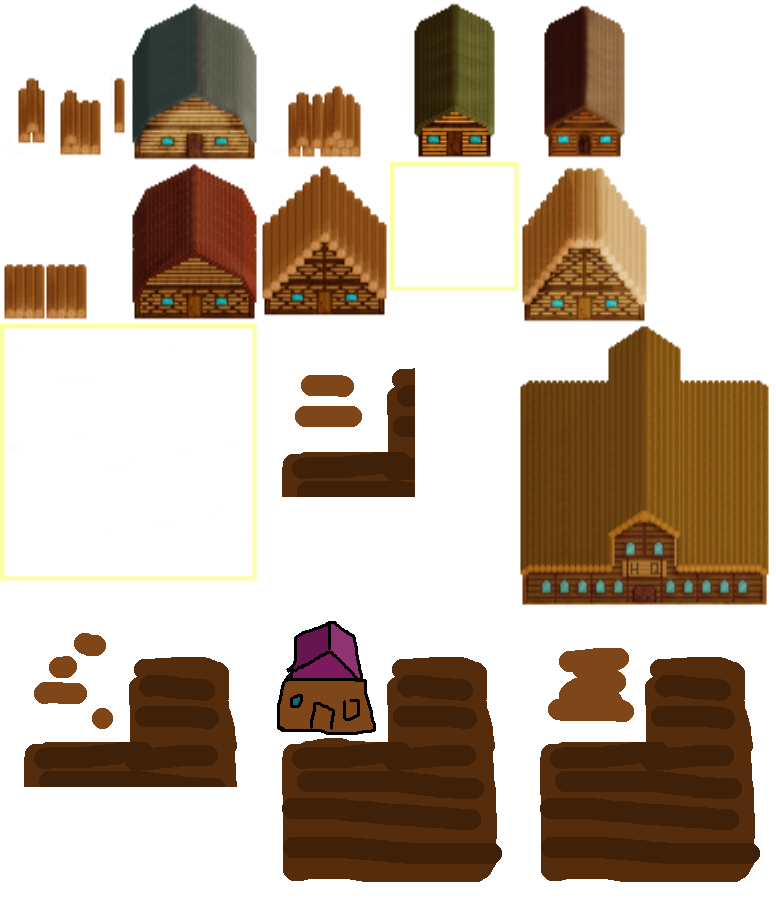
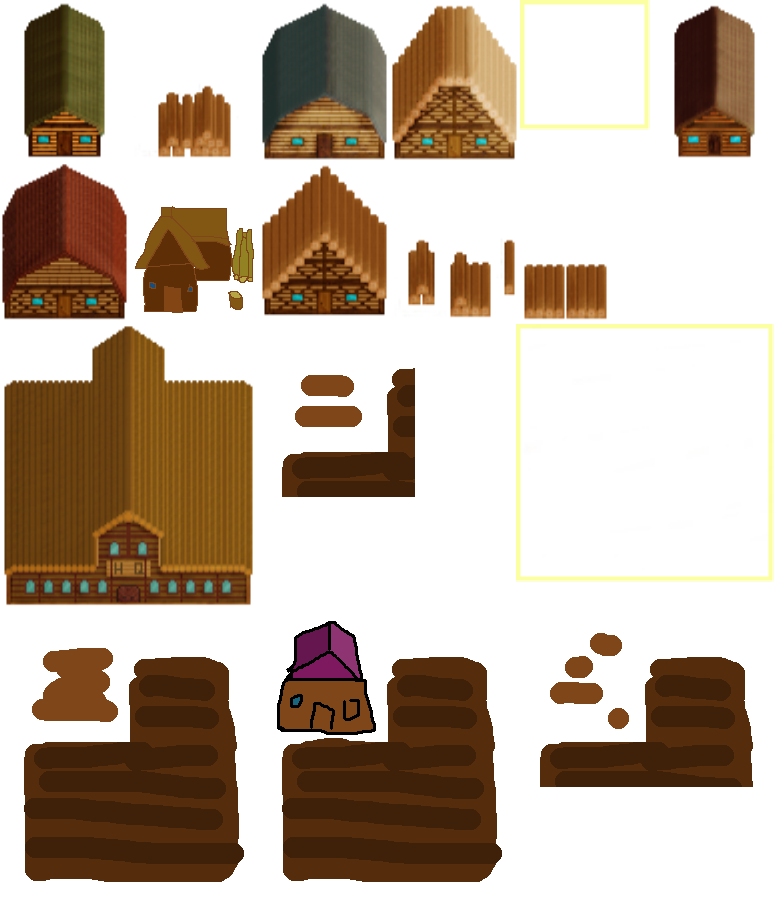
Added woodcutter

diff --git a/crown/Buildings/Woodcutter.cs b/crown/Buildings/Woodcutter.cs
@@ -1,0 +1,60 @@
+using Microsoft.Xna.Framework;
+using TexturePackerLoader;
+using static crown.Game1;
+
+namespace crown.Buildings {
+    class Woodcutter : Building {
+
+        public Woodcutter(SpriteFrame spriteFrame, Vector2 position, Rectangle rect, BuildingTypes type, Costs costs) : base(spriteFrame, position, rect, type, costs) {
+        }
+
+        public override void Initialize() {
+            Inhabitants = 3;
+            GoldUpkeep = 6;
+            ResourcesProduced = 10;
+            mechanics.GoldDelta -= GoldUpkeep;
+            mechanics.WoodDelta += ResourcesProduced;
+        }
+
+        public override void Update() {
+            if (BuildingState == 4) {
+                // People move in and are ready to work
+                Initialize();
+                BuildingState = 5;
+            } else if (BuildingState == 5) {
+
+                // Update resources
+                if (ActionTick > 5) {
+                    foreach (Interactive interactive in interactives) {
+                        if (interactive.Type == Interactive.IntType.TREE
+                        && interactive.Health > 0
+                        && interactive.Rect.Intersects(new Rectangle(Rect.X - 2 * Rect.Width, Rect.Y - 2 * Rect.Height, Rect.Width * 4, Rect.Height * 4))) {
+                            if (mechanics.Wood + ResourcesProduced > mechanics.WoodStorage)
+                                break;
+
+                            mechanics.Wood += ResourcesProduced;
+                            interactive.Health--;
+                            break;
+                        }
+                    }
+                    mechanics.Gold -= GoldUpkeep;
+                    ActionTick = 0;
+                }
+
+                ActionTick++;
+            }
+        }
+
+        public override void UpdateSprite() {
+            if (BuildingState == 0)
+                SpriteFrame = buildingTileSheet.Sprite(TexturePackerMonoGameDefinitions.buildingAtlas.House0);
+            if (BuildingState == 1)
+                SpriteFrame = buildingTileSheet.Sprite(TexturePackerMonoGameDefinitions.buildingAtlas.House1);
+            if (BuildingState == 2)
+                SpriteFrame = buildingTileSheet.Sprite(TexturePackerMonoGameDefinitions.buildingAtlas.House2);
+            if (BuildingState == 3)
+                SpriteFrame = buildingTileSheet.Sprite(TexturePackerMonoGameDefinitions.buildingAtlas.Woodcutter4);
+        }
+
+    }
+}

diff --git a/crown/Controls/Controls.cs b/crown/Controls/Controls.cs
@@ -33,6 +33,11 @@ namespace crown {
                         Costs costs = new Costs(0, -50, -80, -5, 0, 0);
                         BuildLargeBuilding(tile, Building.BuildingTypes.FARM, costs);
                     }
+                    if (mouseAction == MouseAction.WOODCUTTER) {
+                        // TODO: Kosten aus XML ziehen
+                        Costs costs = new Costs(0, 0, -50, -3, 0, 0);
+                        BuildSmallBuilding(tile, Building.BuildingTypes.WOODCUTTER, costs);
+                    }
                     if (mouseAction == MouseAction.ROAD) {
                         BuildRoad(tile, false);
                     }
@@ -200,6 +205,8 @@ namespace crown {
         private static Building GetSmallBuilding(SpriteFrame spriteFrame, Vector2 pos, Rectangle rect, Building.BuildingTypes type, Costs costs) {
             if (type == Building.BuildingTypes.HOUSE)
                 return new House(spriteFrame, pos, rect, type, costs);
+            if (type == Building.BuildingTypes.WOODCUTTER)
+                return new Woodcutter(spriteFrame, pos, rect, type, costs);
 
             return null;
         }

diff --git a/crown/Game1.cs b/crown/Game1.cs
@@ -40,7 +40,8 @@ namespace crown {
 
         // Which action is the mouse currently doing
         public enum MouseAction {
-            FARM, HOUSE, TOWNHALL, NOTHING, ROAD
+            FARM, HOUSE, TOWNHALL, NOTHING, ROAD,
+            WOODCUTTER
         }
 
         public MouseAction mouseAction = MouseAction.NOTHING;
@@ -199,6 +200,8 @@ namespace crown {
                         mouseAction = MouseAction.HOUSE;
                     else if (item.Type == Menu.MenuType.BUTTON_FARM)
                         mouseAction = MouseAction.FARM;
+                    else if (item.Type == Menu.MenuType.BUTTON_WOODCUTTER)
+                        mouseAction = MouseAction.WOODCUTTER;
                 }
         }
 

diff --git a/crown/Drawing.cs b/crown/Drawing.cs
@@ -26,7 +26,7 @@ namespace crown {
 
             if (mouseAction == MouseAction.TOWNHALL || mouseAction == MouseAction.FARM)
                 spriteframe = buildingTileSheet.Sprite(TexturePackerMonoGameDefinitions.buildingAtlas.LargeSelect);
-            if (mouseAction == MouseAction.HOUSE|| mouseAction == MouseAction.ROAD)
+            if (mouseAction == MouseAction.HOUSE || mouseAction == MouseAction.ROAD || mouseAction == MouseAction.WOODCUTTER)
                 spriteframe = buildingTileSheet.Sprite(TexturePackerMonoGameDefinitions.buildingAtlas.SmallSelect);
 
             foreach (Tile tile in tileMap)
@@ -108,5 +108,6 @@ namespace crown {
                 }
             }
         }
+
     }
 }

diff --git a/crown/SpriteSheets/buildingAtlas.cs b/crown/SpriteSheets/buildingAtlas.cs
@@ -4,7 +4,7 @@
  * Contains references to each image within the sprite sheet.
  *
  * http://www.codeandweb.com/texturepacker
- * $TexturePacker:SmartUpdate:5124c1077943ca57b1a39ca52c606898:306f62bf7c049b1e188cff0ffbb32943:905072b72ea92acf8fa5b0216a681f3c$
+ * $TexturePacker:SmartUpdate:e09c2f5c408bb2f929d4c4a3033a7457:f9f352d2d300a5e4877807ae0fe5a34a:905072b72ea92acf8fa5b0216a681f3c$
  *
  */
 namespace TexturePackerMonoGameDefinitions
@@ -27,5 +27,6 @@ namespace TexturePackerMonoGameDefinitions
 		public const string LargeSelect = "largeSelect";
 		public const string SmallSelect = "smallSelect";
 		public const string Townhall = "townhall";
+		public const string Woodcutter4 = "woodcutter4";
 	}
 }

diff --git a/crown/Buildings/Townhall.cs b/crown/Buildings/Townhall.cs
@@ -9,11 +9,11 @@ namespace crown.Buildings {
         }
 
         public override void Initialize() {
-            mechanics.WoodStorage = 200;
-            mechanics.StoneStorage = 200;
+            mechanics.WoodStorage = 400;
+            mechanics.StoneStorage = 100;
             mechanics.FoodStorage = 1000;
-            mechanics.Wood = 500;
-            mechanics.Food = 300;
+            mechanics.Wood = 200;
+            mechanics.Food = 200;
         }
 
         public override void Update() {

diff --git a/crown/Mechanics.cs b/crown/Mechanics.cs
@@ -25,7 +25,7 @@ namespace crown {
         List<Building> buildings;
 
         public Mechanics() {
-            gold = 1000;
+            gold = 500;
             wood = 0;
             stone = 0;
             population = 0;
